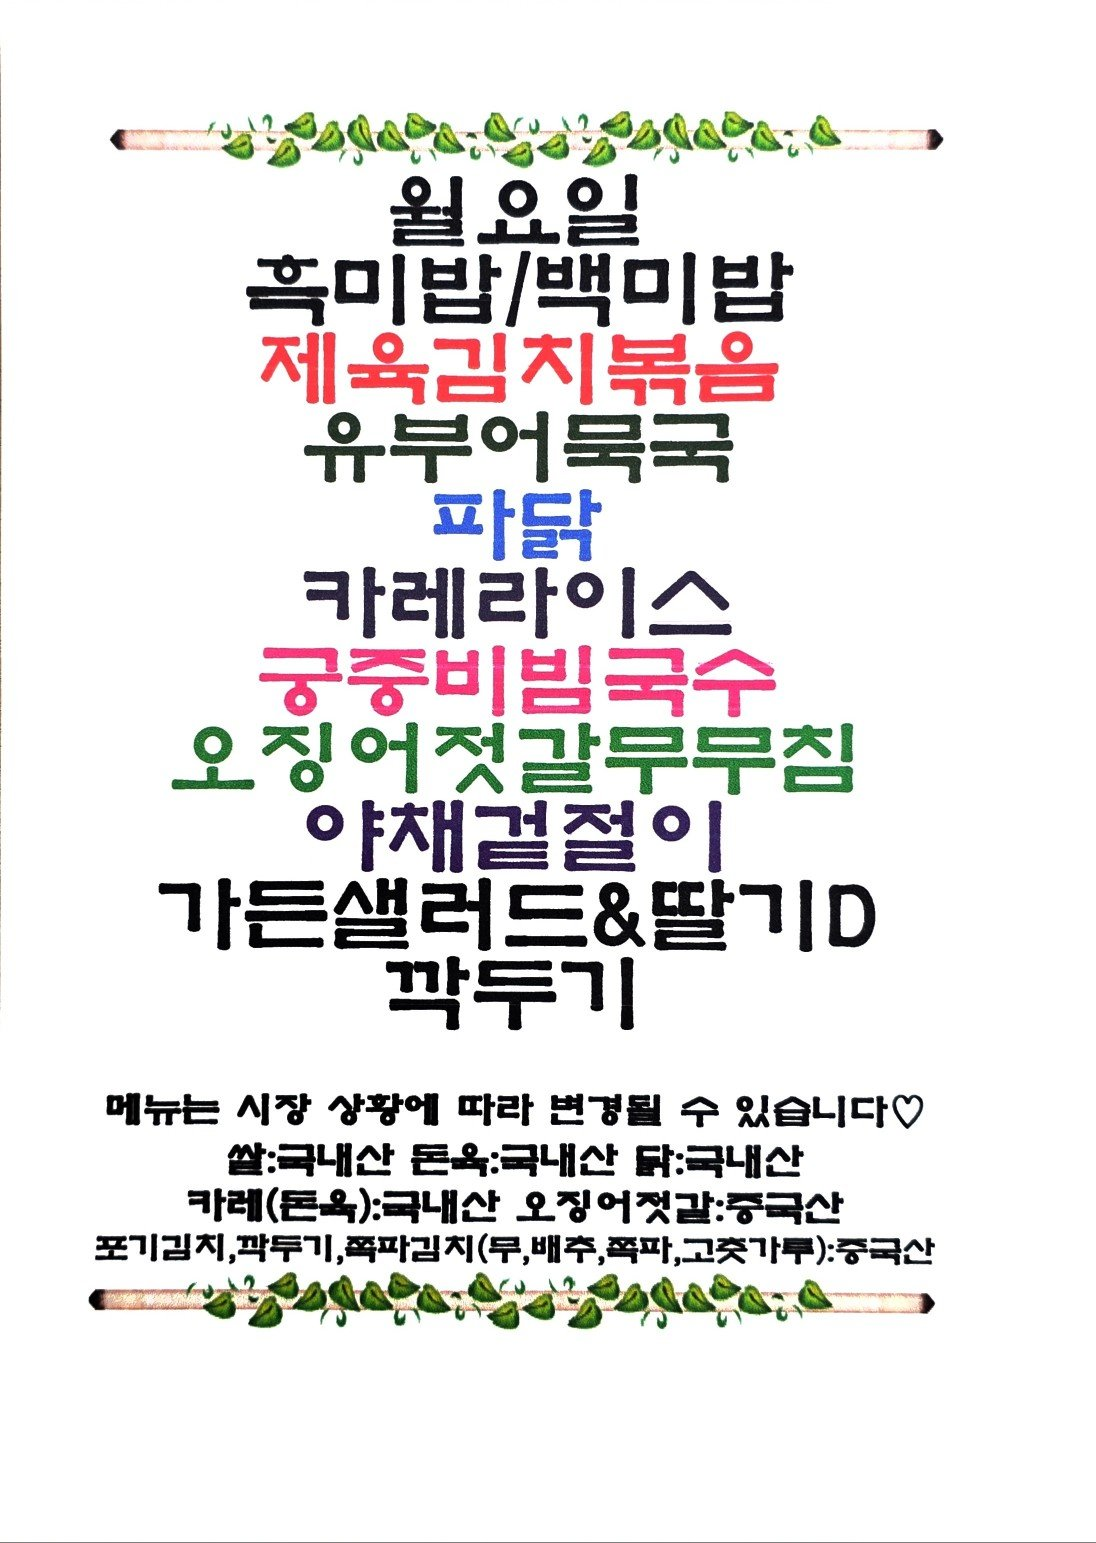
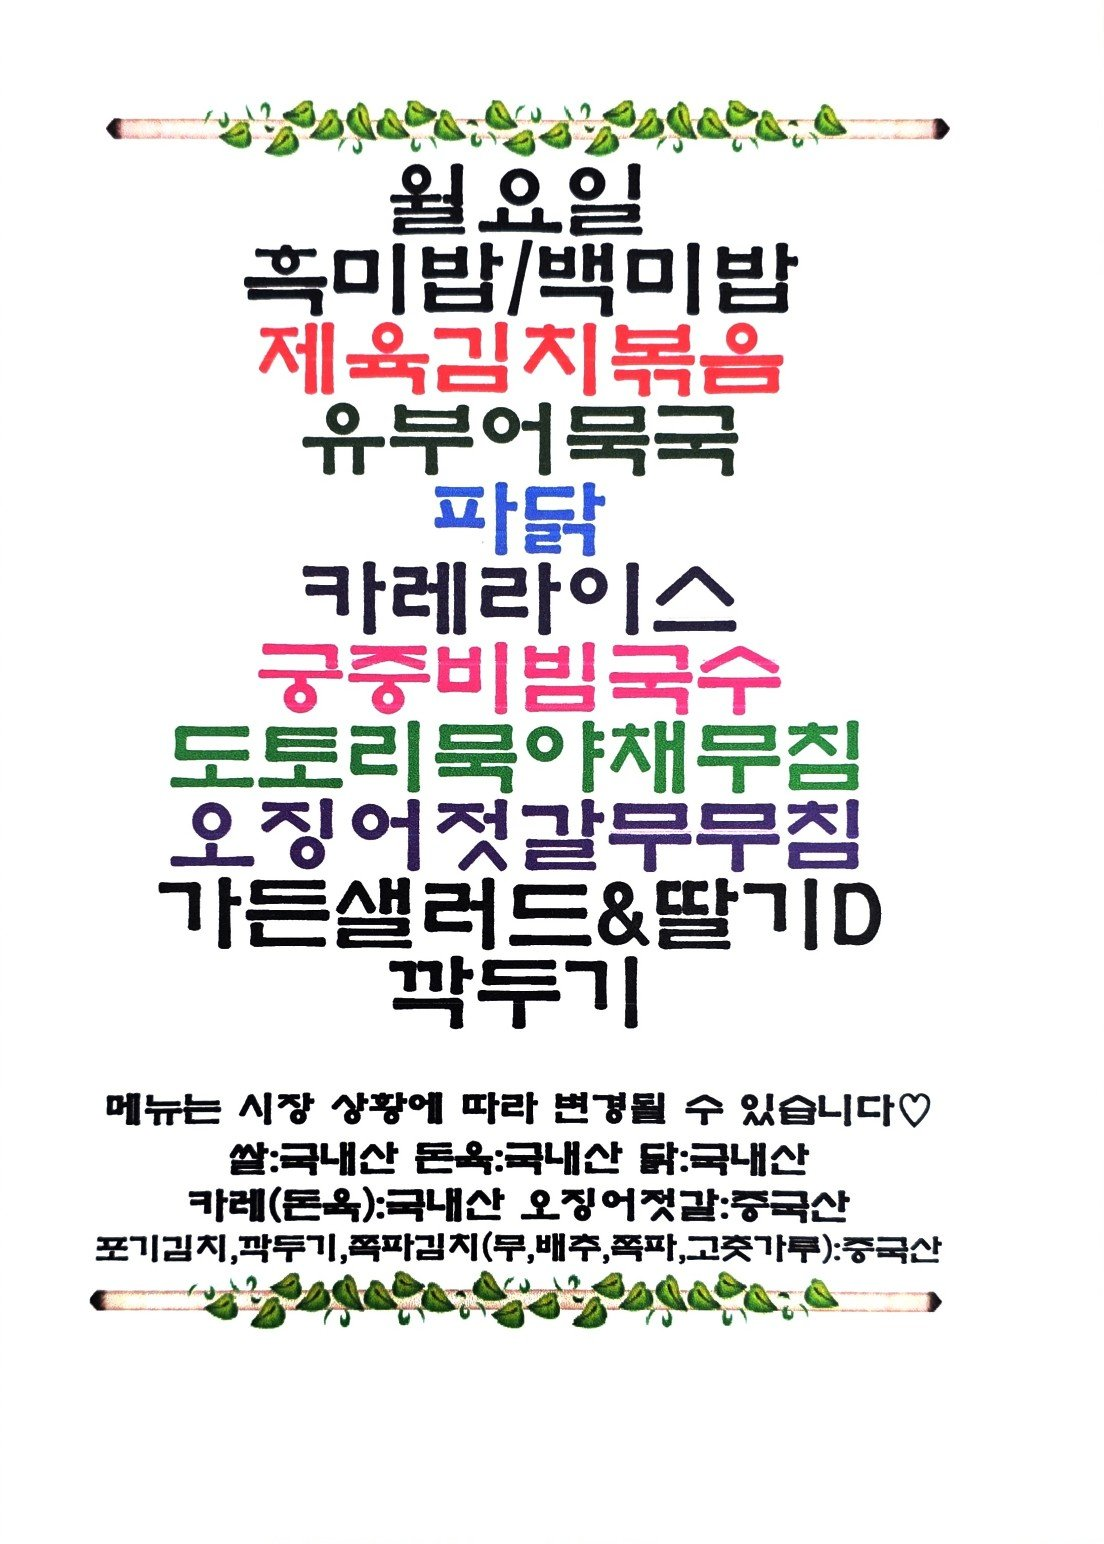
Update menu board assets

Changed region(s): [[0.0931, 0.0622, 0.8686, 0.6533], [0.0931, 0.6844, 0.8686, 0.871], [0.0, 0.9955, 1.0, 1.0]]

diff --git a/menu-today/index.html b/menu-today/index.html
@@ -209,7 +209,7 @@
 
     <section class="meta-bar">
       <div class="meta-card"><div class="meta-label">기준 날짜</div><div class="meta-value">2026년 8월 10일 월요일</div></div>
-      <div class="meta-card"><div class="meta-label">최종 가져온 시간</div><div class="meta-value">2026-08-10 09:19:00</div></div>
+      <div class="meta-card"><div class="meta-label">최종 가져온 시간</div><div class="meta-value">2026-08-10 09:34:05</div></div>
       <div class="meta-card"><div class="meta-label">확인 완료</div><div class="meta-value">9개 식당</div></div>
       <div class="meta-card"><div class="meta-label">준비중</div><div class="meta-value">3개 채널</div></div>
     </section>
@@ -295,7 +295,7 @@
             <div class="sub">에이스테크노타워10차</div>
           </div>
         </div>
-        <div class="menu-inline-image"><img src="./images/thefoodsketch.png" alt="더푸드스케치 식단 이미지"></div><ul><li>미역국</li><li>버섯소불고기</li><li>후라이드 치킨 &amp; 와사비 소스</li><li>계란밀이</li><li>유니짜장 / 면사리</li><li>청양버터길릭어묵볶음</li><li>기 새우무조림</li><li>가든샐러드 / 드레싱</li><li>배추겉절이 / 음료</li></ul>
+        <div class="menu-inline-image"><img src="./images/thefoodsketch.png" alt="더푸드스케치 식단 이미지"></div><ul><li>미역국</li><li>버섯소불고기</li><li>후라이드 치킨 &amp; 와사비 소스</li><li>계란밀이</li><li>유니짜장 / 면사리</li><li>청양버터길릭어묵볶음</li><li>기 새우무조림</li><li>가든샐러드 &amp; 드레싱</li><li>배추겉절이 / 음료</li></ul>
       </article>
 
       <article class="restaurant-card">
@@ -305,7 +305,7 @@
             <div class="sub">스타밸리</div>
           </div>
         </div>
-        <div class="menu-inline-image"><img src="./images/starvalley-food4u-post.png" alt="스타밸리푸드포유 식단 이미지"></div><ul><li>월요일</li><li>흑미밥 / 백미밥</li><li>유부어묵극</li><li>파닭</li><li>카레라이스</li><li>궁중비빔국수</li><li>오징어젖갈무무침</li><li>야채걸절이</li><li>팍두기</li><li>옥미밥,백미밥</li></ul>
+        <div class="menu-inline-image"><img src="./images/starvalley-food4u-post.png" alt="스타밸리푸드포유 식단 이미지"></div><ul><li>월요일</li><li>흑미밥 / 백미밥</li><li>유부어묵국</li><li>카레라이스</li><li>궁중비빔국수</li><li>도토리묵야재무침</li><li>오징어젖갈무무짐</li><li>가든샐러드 &amp; 딸기D</li><li>과두기</li><li>으미밥 / 백미븐</li><li>파닭</li></ul>
       </article>
     </section>
 

diff --git a/guro-menu/index.html b/guro-menu/index.html
@@ -32,7 +32,7 @@
   </header>
   <section class="meta">
     <div><small>기준 날짜</small><strong>2026년 8월 10일 월요일</strong></div>
-    <div><small>최종 갱신</small><strong>2026-08-10 09:19:15</strong></div>
+    <div><small>최종 갱신</small><strong>2026-08-10 09:34:19</strong></div>
     <div><small>등록 식당</small><strong>5개</strong></div>
   </section>
   <div class="notice">공개 카카오 채널의 메뉴 이미지를 자동 수집하고 OCR로 정리합니다. 텍스트에 오타가 있을 수 있으니 식단 이미지를 함께 확인해 주세요.</div>
